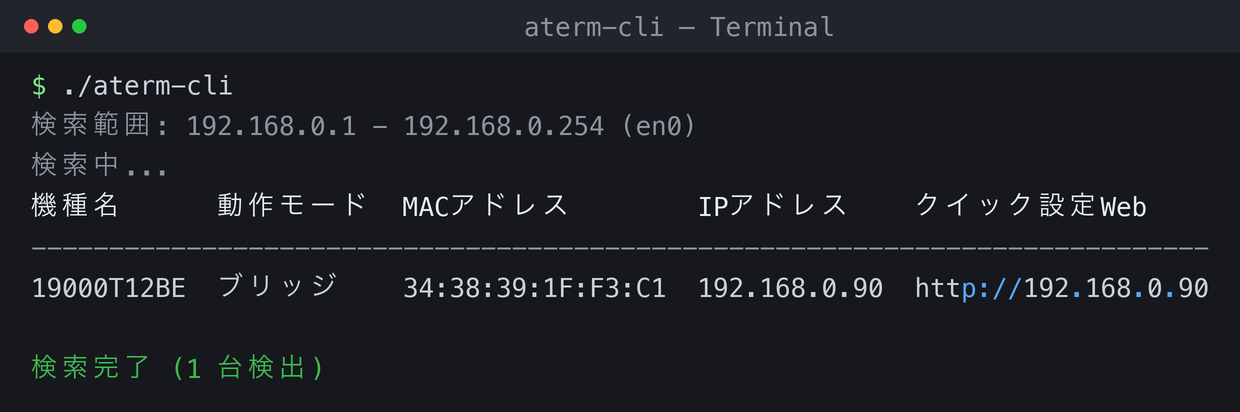
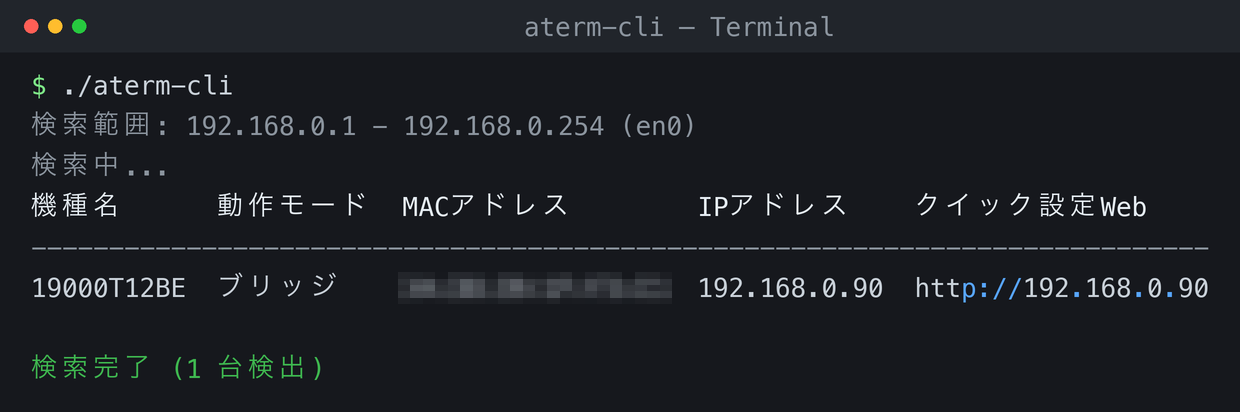
Public snapshot (clean) from AtermDetector@a540200

Changed region(s): [[0.3065, 0.6699, 0.5516, 0.7282]]

diff --git a/Core/ScanViewModel.swift b/Core/ScanViewModel.swift
@@ -33,6 +33,9 @@ final class ScanViewModel {
 
     private static let logger = Logger(subsystem: "com.hsmorikawa.AtermDetector", category: "scan")
 
+    private var isFirstScan = true
+    private let autoRetryDelay: Duration
+
     private let networkInfo: any NetworkInfoProviding
     private let prober: any AtermProbing
     private let engine: ScanEngine
@@ -40,11 +43,13 @@ final class ScanViewModel {
     init(
         networkInfo: any NetworkInfoProviding = SystemNetworkInfo(),
         prober: any AtermProbing = AtermClient(),
-        maxConcurrent: Int = ScanEngine.defaultMaxConcurrent
+        maxConcurrent: Int = ScanEngine.defaultMaxConcurrent,
+        autoRetryDelay: Duration = .seconds(2)
     ) {
         self.networkInfo = networkInfo
         self.prober = prober
         self.engine = ScanEngine(prober: prober, maxConcurrent: maxConcurrent)
+        self.autoRetryDelay = autoRetryDelay
     }
 
     /// スキャン開始 (実行中の二重起動は無視)。範囲が導出できないときは failed。
@@ -54,16 +59,22 @@ final class ScanViewModel {
             state = .failed(message: "ネットワーク情報を取得できません。ネットワーク接続を確認してください。")
             return
         }
+        let allowRetry = isFirstScan
+        isFirstScan = false
         scanRange = range
         devices = []
         state = .scanning(done: 0, total: range.targets.count)
 
         scanTask = Task { [weak self] in
             guard let self else { return }
-            let found = await self.engine.scan(targets: range.targets) { done, total in
-                Task { @MainActor in
-                    guard self.isScanning else { return }
-                    self.state = .scanning(done: done, total: total)
+            var found = await self.runScan(range.targets)
+            // 起動直後は macOS のローカルネットワーク許可が有効化される前に最初の
+            // スキャンが空振りすることがある (macOS 15 以降のレース)。許可済みでも
+            // 0 件になり得るため、起動時スキャンが 0 件なら一度だけ自動再試行する。
+            if allowRetry, found.isEmpty, !Task.isCancelled {
+                try? await Task.sleep(for: self.autoRetryDelay)
+                if !Task.isCancelled {
+                    found = await self.runScan(range.targets)
                 }
             }
             guard !Task.isCancelled else { return }
@@ -71,6 +82,16 @@ final class ScanViewModel {
             self.state = .finished(count: found.count)
             // 件数のみ debug ログ。機器名/IP/MAC は識別子のため永続ログに残さない
             Self.logger.debug("scan finished: \(found.count, privacy: .public) device(s)")
+        }
+    }
+
+    /// 1 回分のスキャン実行 (進捗を state に反映)。
+    private func runScan(_ targets: [String]) async -> [AtermDevice] {
+        await engine.scan(targets: targets) { done, total in
+            Task { @MainActor in
+                guard self.isScanning else { return }
+                self.state = .scanning(done: done, total: total)
+            }
         }
     }
 

diff --git a/Tests/ScanViewModelTests.swift b/Tests/ScanViewModelTests.swift
@@ -46,7 +46,8 @@ final class ScanViewModelTests: XCTestCase {
 
     func testStartScanIgnoredWhileScanning() async {
         let targets = (1 ... 4).map { "10.0.0.\($0)" }
-        let prober = CountingProber(delayNanoseconds: 100_000_000)
+        // 1 台検出させて自動再試行を発生させない (本テストの主眼は二重起動ガード)
+        let prober = CountingProber(devices: ["10.0.0.1": device("10.0.0.1")], delayNanoseconds: 100_000_000)
         let viewModel = ScanViewModel(
             networkInfo: FakeNetworkInfo(range: makeRange(targets)),
             prober: prober
@@ -63,7 +64,8 @@ final class ScanViewModelTests: XCTestCase {
         let prober = CountingProber()
         let viewModel = ScanViewModel(
             networkInfo: FakeNetworkInfo(range: makeRange(targets)),
-            prober: prober
+            prober: prober,
+            autoRetryDelay: .zero
         )
         viewModel.startScan()
         await viewModel.scanTask?.value
@@ -73,7 +75,24 @@ final class ScanViewModelTests: XCTestCase {
         XCTAssertTrue(viewModel.isScanning)
         await viewModel.scanTask?.value
         let count = await prober.probeCount
-        XCTAssertEqual(count, 4, "2 対象 × 2 回スキャン")
+        // 初回スキャン (2) + 空振りの自動再試行 (2) + 手動再スキャン (2、再試行なし)
+        XCTAssertEqual(count, 6, "初回は 0 件で自動再試行、手動再スキャンは再試行しない")
+    }
+
+    func testAutoRetriesOnceWhenFirstScanEmpty() async {
+        // 起動時のローカルネットワーク権限レースを模擬: 1 回目のスキャン (2 probe) は
+        // 空振り、自動再試行で検出できること。
+        let targets = ["10.0.0.1", "10.0.0.2"]
+        let prober = RaceProber(devices: ["10.0.0.2": device("10.0.0.2")], activateAfter: 2)
+        let viewModel = ScanViewModel(
+            networkInfo: FakeNetworkInfo(range: makeRange(targets)),
+            prober: prober,
+            autoRetryDelay: .zero
+        )
+        viewModel.startScan()
+        await viewModel.scanTask?.value
+        XCTAssertEqual(viewModel.devices.map(\.ip), ["10.0.0.2"])
+        XCTAssertEqual(viewModel.state, .finished(count: 1))
     }
 
     func testProbeSingleRejectsInvalidInput() {
@@ -102,7 +121,8 @@ final class ScanViewModelTests: XCTestCase {
     func testFinishedZeroKeepsEmptyDevices() async {
         let viewModel = ScanViewModel(
             networkInfo: FakeNetworkInfo(range: makeRange(["10.0.0.9"])),
-            prober: FakeProber()
+            prober: FakeProber(),
+            autoRetryDelay: .zero
         )
         viewModel.startScan()
         await viewModel.scanTask?.value

diff --git a/Tests/Helpers/TestFakes.swift b/Tests/Helpers/TestFakes.swift
@@ -33,6 +33,26 @@ actor CountingProber: AtermProbing {
     }
 }
 
+/// 起動直後のローカルネットワーク権限レースを模擬するプローバ。
+/// 最初の `activateAfter` 回の probe は nil を返し (= 権限有効化前で空振り)、
+/// それ以降のみ devices を返す (= 再スキャンで検出できる)。
+actor RaceProber: AtermProbing {
+    private var calls = 0
+    let activateAfter: Int
+    let devices: [String: AtermDevice]
+
+    init(devices: [String: AtermDevice], activateAfter: Int) {
+        self.devices = devices
+        self.activateAfter = activateAfter
+    }
+
+    func probe(ip: String) async -> AtermDevice? {
+        calls += 1
+        if calls <= activateAfter { return nil }
+        return devices[ip]
+    }
+}
+
 /// 固定のスキャン範囲を返すネットワーク情報。
 struct FakeNetworkInfo: NetworkInfoProviding {
     var range: ScanRange?

diff --git a/README.md b/README.md
@@ -8,6 +8,8 @@
 
 Aterm の IP アドレスが分からなくても、起動するだけで同一ネットワーク内の Aterm を見つけ、クイック設定 Web (設定画面) をブラウザで開けます。
 
+![AtermDetector の画面](docs/images/app.png)
+
 ## 機能
 
 - 起動時にサブネットを自動スキャンし、検出した Aterm を一覧表示 (機種名 / 動作モード / MAC アドレス / クイック設定 Web リンク)